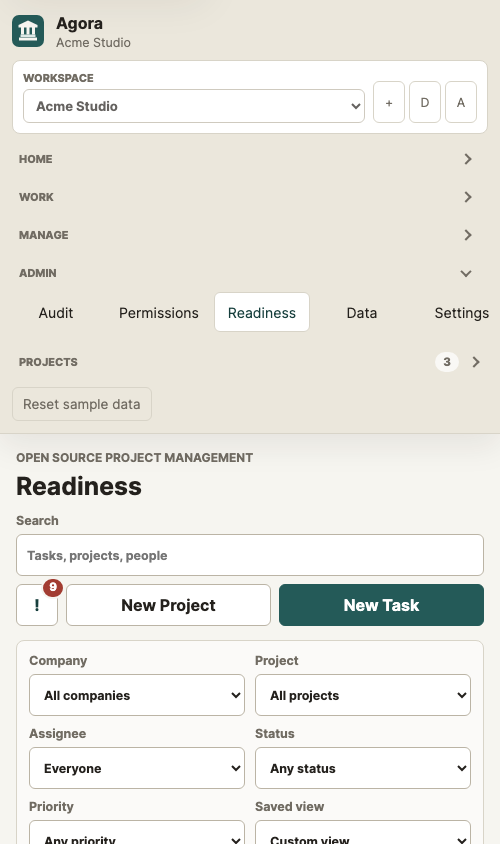
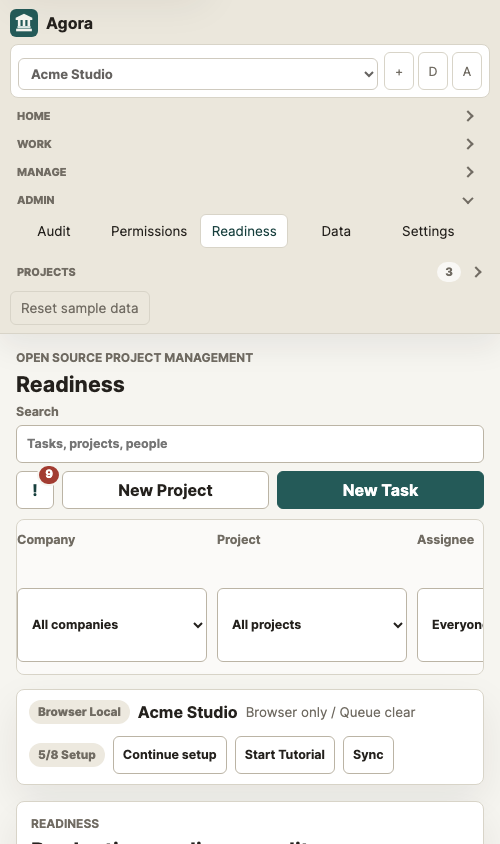
Tighten mobile shell chrome

diff --git a/src/styles.css b/src/styles.css
@@ -7191,30 +7191,67 @@ body[data-density="compact"] .main-content {
   }
 
   .sidebar {
-    gap: 10px;
-    padding: 12px max(12px, env(safe-area-inset-right)) 12px max(12px, env(safe-area-inset-left));
+    gap: 6px;
+    padding: 8px max(10px, env(safe-area-inset-right)) 8px max(10px, env(safe-area-inset-left));
   }
 
   .brand {
-    min-height: 38px;
+    min-height: 30px;
+    gap: 8px;
   }
 
   .brand img {
-    width: 32px;
-    height: 32px;
+    width: 28px;
+    height: 28px;
+  }
+
+  .brand small {
+    display: none;
+  }
+
+  .workspace-switcher {
+    gap: 6px;
+    padding: 7px;
+  }
+
+  .workspace-switcher span {
+    display: none;
+  }
+
+  .workspace-switcher select {
+    min-height: 32px;
+  }
+
+  .workspace-switcher-actions .icon-button {
+    width: 30px;
+    height: 30px;
+  }
+
+  .nav-list,
+  .project-list {
+    gap: 4px;
+  }
+
+  .nav-group {
+    gap: 2px;
+  }
+
+  .nav-group-toggle {
+    min-height: 24px;
+    padding: 2px 6px;
   }
 
   .nav-item {
-    min-width: 96px;
-    min-height: 40px;
-    padding: 7px 10px;
-    font-size: 0.88rem;
+    min-width: 88px;
+    min-height: 34px;
+    padding: 5px 8px;
+    font-size: 0.84rem;
   }
 
   .project-pill {
-    min-width: 168px;
-    min-height: 40px;
-    padding: 7px 10px;
+    min-width: 148px;
+    min-height: 34px;
+    padding: 5px 8px;
   }
 
   .secondary-action {
@@ -7226,18 +7263,18 @@ body[data-density="compact"] .main-content {
 
   .topbar {
     display: grid;
-    gap: 14px;
+    gap: 8px;
     justify-content: stretch;
-    margin-bottom: 14px;
+    margin-bottom: 10px;
   }
 
   .topbar h1 {
-    font-size: 1.55rem;
+    font-size: 1.34rem;
   }
 
   .topbar-actions {
     display: grid;
-    grid-template-columns: 42px minmax(0, 1fr) minmax(0, 1fr);
+    grid-template-columns: 38px minmax(0, 1fr) minmax(0, 1fr);
     gap: 8px;
     justify-content: stretch;
   }
@@ -7248,8 +7285,8 @@ body[data-density="compact"] .main-content {
   }
 
   .notification-button {
-    width: 42px;
-    min-height: 42px;
+    width: 38px;
+    min-height: 38px;
   }
 
   .button,
@@ -7257,11 +7294,34 @@ body[data-density="compact"] .main-content {
   input,
   select,
   textarea {
-    min-height: 42px;
+    min-height: 38px;
   }
 
   .button {
-    padding: 8px 10px;
+    padding: 7px 9px;
+  }
+
+  .toolbar {
+    display: flex;
+    overflow-x: auto;
+    -webkit-overflow-scrolling: touch;
+    overscroll-behavior-x: contain;
+    gap: 8px;
+    margin-bottom: 12px;
+    padding: 10px;
+    scroll-snap-type: x proximity;
+  }
+
+  .toolbar label {
+    flex: 0 0 min(190px, 68vw);
+    scroll-snap-align: start;
+  }
+
+  .saved-view-actions {
+    flex: 0 0 min(230px, 78vw);
+    display: grid;
+    grid-template-columns: repeat(2, minmax(0, 1fr));
+    scroll-snap-align: start;
   }
 
   .golden-path-panel {
